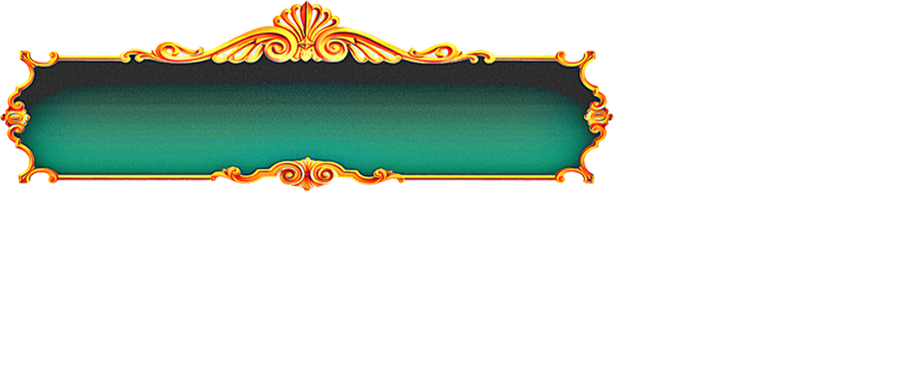
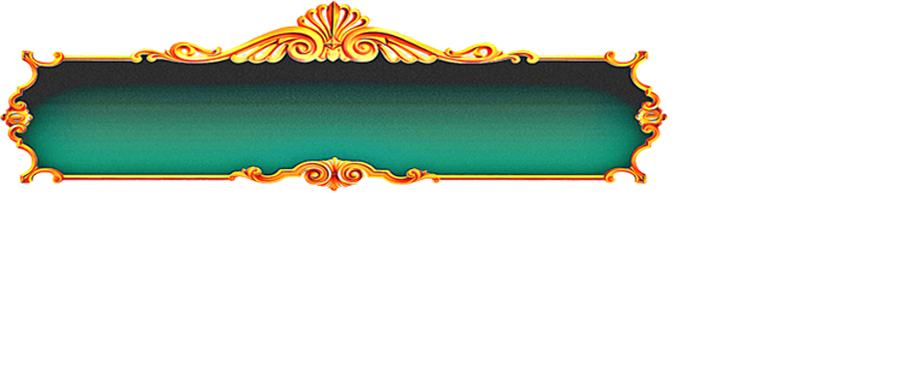
left input box and right result table are now in same length, buttons are in now same length, mrp image added

Changed region(s): [[0.1231, 0.0, 0.7385, 0.4987], [0.0, 0.1173, 0.0923, 0.4987], [0.2154, 0.4107, 0.4923, 0.528]]

diff --git a/rajshree_single_angular/src/app/pages/terminal/terminal.component.html b/rajshree_single_angular/src/app/pages/terminal/terminal.component.html
@@ -38,7 +38,10 @@
               </tbody>
             </table>
             <div style="padding-top: 6px;">
-              <div class=" d-flex mt-5" style="height: 50px; border-radius: 10px;margin-top: 25px; ">
+              <div class="left-div" style="padding-top: ; margin-left: 20px; text-align: center;" >
+                <span class="d-flex" style="padding-left: 25px; margin-top: 40px;" ><h4 style="font-weight: bolder; font-size: large; padding-top: 30px; padding-left: 150px;color: white;">{{totalTicketPurchased}}</h4></span>
+               </div>
+              <div class=" d-flex mt-" style="height: 50px; border-radius: 10px;margin-top: 10px; ">
                 <!-- <button style="font-size: 100%;   width: 50%;height: 145%;  border: 8px solid rgb(255, 255, 255); border-style: double;" class="btn btn-danger ml-1 btn-responsive" [routerLink]="['/terminalReport']">REPORT</button> -->
                 <button (click)="resetMatrixValue()" style="font-size: 100%;  width: 50%;  border: 8px solid rgb(253, 253, 253); border-style: double; height: 145%; font-size: 30px;font-weight: bolder;" class="btn btn-success ml-1 btn-responsive">CLEAR</button>
                 <button class="btn btn-info ml-1 btn-responsive" id="print-button" style="font-size: 100%;   width: 50%;height: 145%;  border: 8px solid rgb(255, 255, 255); border-style: double; font-size: 30px;font-weight: bolder;"
@@ -47,9 +50,9 @@
             </div>
 
             <div class="col-4" style="" >
-              <div class="left-div" style="padding-top: ;" >
+              <!-- <div class="left-div" style="padding-top: ;" >
                <span class="d-flex" style="padding-left: 25px; margin-top: 40px;" ><h4 style="font-weight: bolder; font-size: large; padding-top: 30px; padding-left: 150px;color: white;">{{totalTicketPurchased}}</h4></span>
-              </div>
+              </div> -->
             </div>
           </div>
 
@@ -142,7 +145,9 @@
                       <div class=" result-heading current-result" style="font-size: larger;">{{result.end_time.slice(0,5)}}</div>
                       <div class="bd-highlight current-result">
                         <span *ngIf="result.single_number!=null"></span>{{result.single_number}}
-                        <span *ngIf="result.single_number==null"><img src="assets/images/singleStar3.gif" height="40px" alt=""></span>
+                        <span *ngIf="result.single_number==null" style="font-size: 25px;">
+                          <img src="assets/images/singleStar3.gif" height="40px" alt="">
+                        </span>
                       </div>
                       <!-- <div class="bd-highlight current-result" style="background-color: rgb(28, 35, 253);"><img src="assets/images/singleStar.gif" height="10px" alt=""></div> -->
                     </td>
@@ -156,10 +161,19 @@
             <button class="btn btn-success ml-1 btn-responsive"  style="font-size: 100%;   width: 50%;height: 145%;  border: 8px solid rgb(255, 255, 255); border-style: double;"
                       (click)="resetMatrixValue()">CLEAR</button>
           </div> -->
-          <div class=" mt-3" style="height: 50px; border-radius: 10px; padding-left: 100px;">
-            <button style="font-size: 100%; width: 100%;text-align: center; border: 8px solid rgb(255, 255, 255);border-style: double; height: 145%; font-size: 30px;font-weight: bolder;" class="btn btn-lg  btn-responsive btn-primary" [routerLink]="['/terminalReport']"  >INFO</button>
-            <button style="font-size: 100%;   width: 100%;height: 145%;  border: 8px solid rgb(255, 255, 255); border-style: double; font-size: 30px;font-weight: bolder;" class="btn btn-danger mt-1 btn-responsive" [routerLink]="['/terminalReport']">REPORT</button>
-            <!-- <button (click)="resetMatrixValue()" style="font-size: 100%;  width: 100%;  border: 8px solid rgb(253, 253, 253); border-style: double; height: 145%;" class="btn btn-success mt-3 btn-responsive">CLEAR</button> -->
+          <!-- <div class=" mt-3" style="height: 50px; border-radius: 10px; padding-left: 100px;">
+            <button style="font-size: 100%; width: 50%;text-align: center; border: 8px solid rgb(255, 255, 255);border-style: double; height: 145%; font-size: 30px;font-weight: bolder;" class="btn btn-lg  btn-responsive btn-primary" [routerLink]="['/terminalReport']"  >INFO</button>
+            <button style="font-size: 100%;   width: 50%;height: 145%;  border: 8px solid rgb(255, 255, 255); border-style: double; font-size: 30px;font-weight: bolder;" class="btn btn-danger mt-1 btn-responsive" [routerLink]="['/terminalReport']">REPORT</button>
+
+          </div> -->
+          <div style="padding-top: 6px;">
+            <div class="right-div" style="padding-top: ; margin-left: 60px" >
+              <span class="d-flex" style="padding-left: 25px; margin-top: 40px;" ><h4 style="font-weight: bolder; font-size: large; padding-top: 30px; padding-left: 150px;color: white;">{{totalTicketPurchased}}</h4></span>
+             </div>
+            <div class=" d-flex mt-" style="height: 50px; border-radius: 10px;margin-top: 10px; ">
+              <button style="font-size: 100%; width: 50%;text-align: center; border: 8px solid rgb(255, 255, 255);border-style: double; height: 145%; font-size: 30px;font-weight: bolder;" class="btn btn-lg  btn-responsive btn-primary" [routerLink]="['/terminalReport']"  >INFO</button>
+              <button style="font-size: 100%;   width: 50%;height: 145%;  border: 8px solid rgb(255, 255, 255); border-style: double; font-size: 30px;font-weight: bolder;" class="btn btn-danger ml-1 btn-responsive" [routerLink]="['/terminalReport']">REPORT</button>
+            </div>
           </div>
           <!-- <div class=" d-flex" style="height: 60px; border-radius: 10px;padding-top: 20px; padding-left: 97px;">
             <button style="font-size: 100%;   width: 50%;height: 145%;  border: 8px solid rgb(255, 255, 255); border-style: double;" class="btn btn-danger ml-1 btn-responsive" [routerLink]="['/terminalReport']">REPORT</button>

diff --git a/rajshree_single_angular/src/app/pages/terminal/terminal.component.scss b/rajshree_single_angular/src/app/pages/terminal/terminal.component.scss
@@ -30,7 +30,7 @@ $triple-button-6: url('/assets/images/nextbtn-7.png');
 $triple-button-7: url('/assets/images/nextbtn-8.png');
 $triple-button-8: url('/assets/images/nextbtn-9.png');
 $triple-button-9: url('/assets/images/nextbtn-10.png');
- 
+
 $single-button-0: url('/assets/images/single/single-0.png');
 $single-button-1: url('/assets/images/single/single-1.png');
 $single-button-2: url('/assets/images/single/single-2.png');
@@ -583,6 +583,24 @@ span .mat-fab .mat-button-wrapper {
   margin-left: -19px;
 
 //   width: 1000px;
+  height: 80px;
+ }
+
+ .left-div{
+  width: 300px;
+  background-image: url('/assets/images/TripleFun/CancelBet.png');
+  background-repeat: no-repeat;
+  background-size: cover;
+  margin-left: -19px;
+  height: 80px;
+ }
+
+ .right-div{
+  width: 300px;
+  background-image: url('/assets/images/TripleFun/CancelBet2.png');
+  background-repeat: no-repeat;
+  background-size: cover;
+  margin-left: -19px;
   height: 80px;
  }
 
